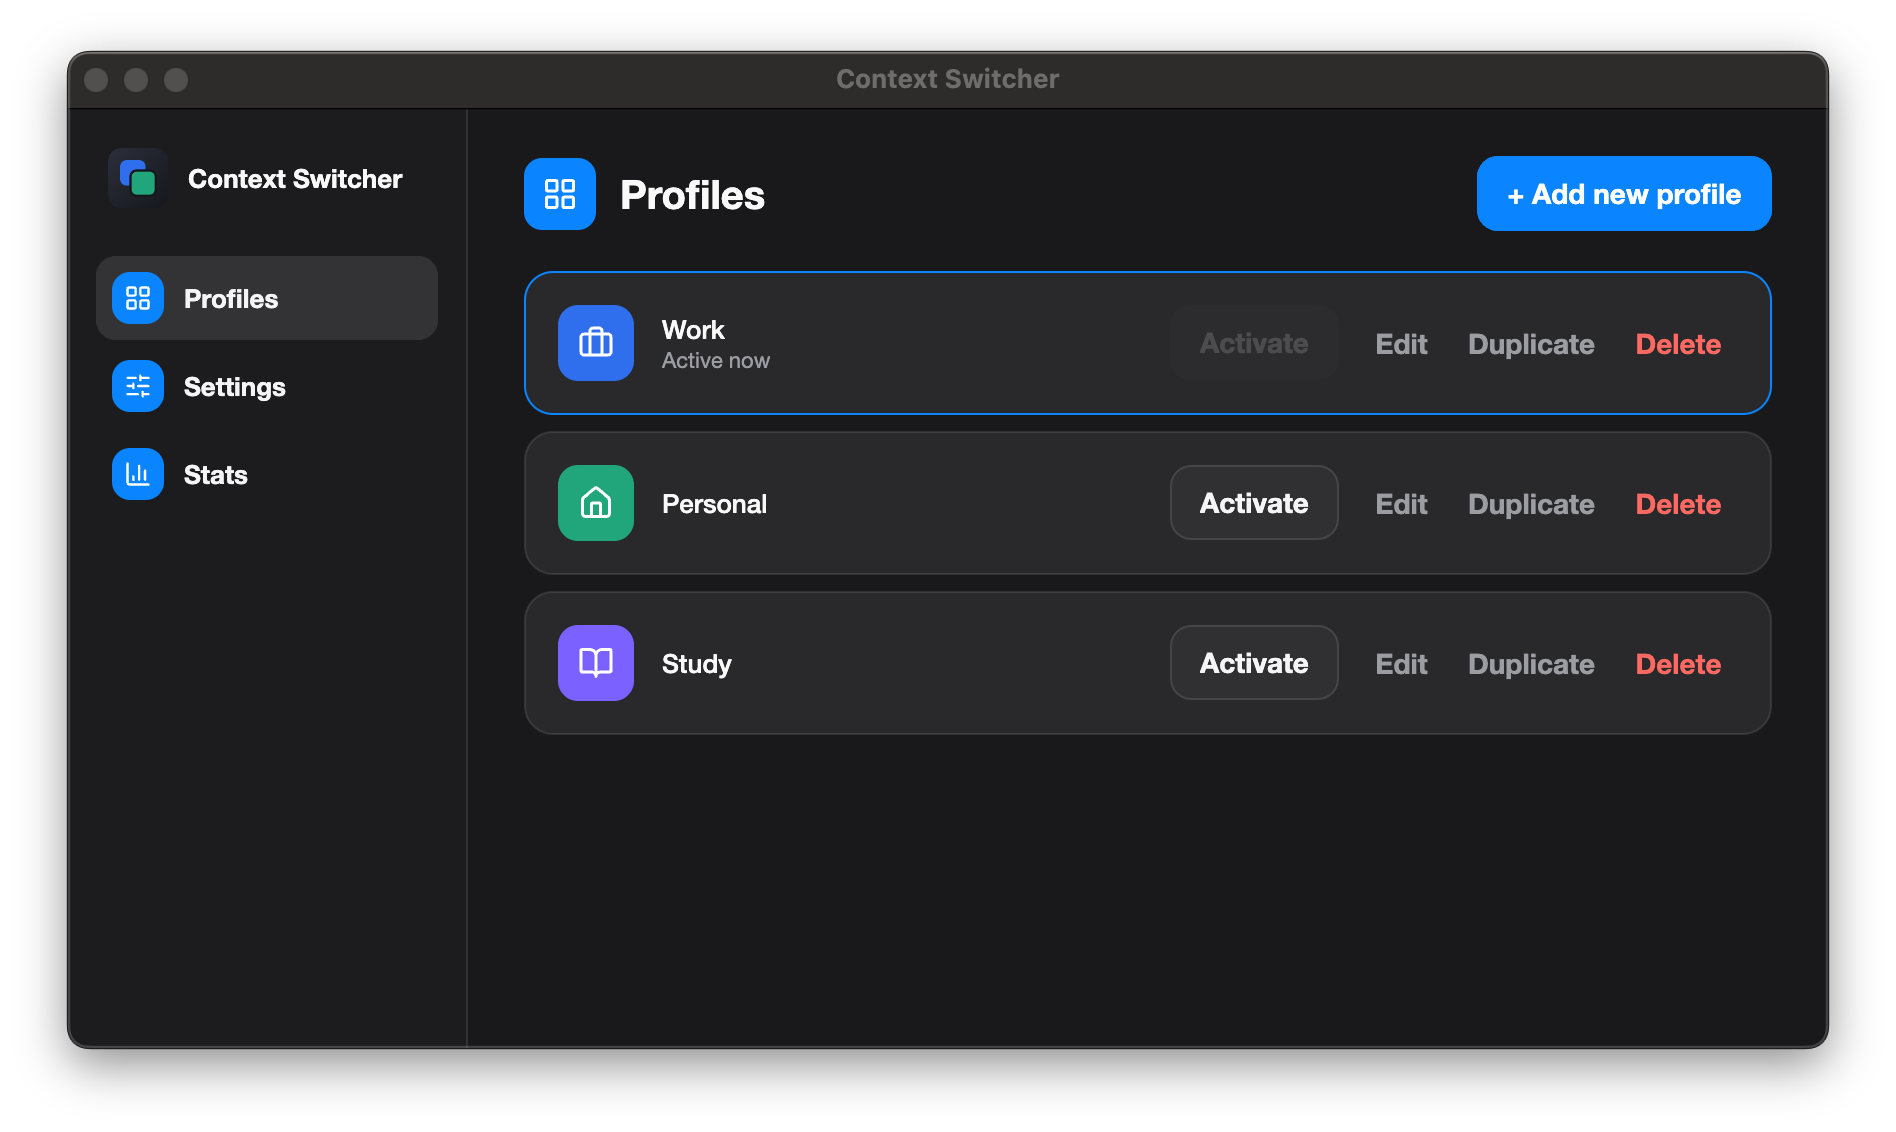
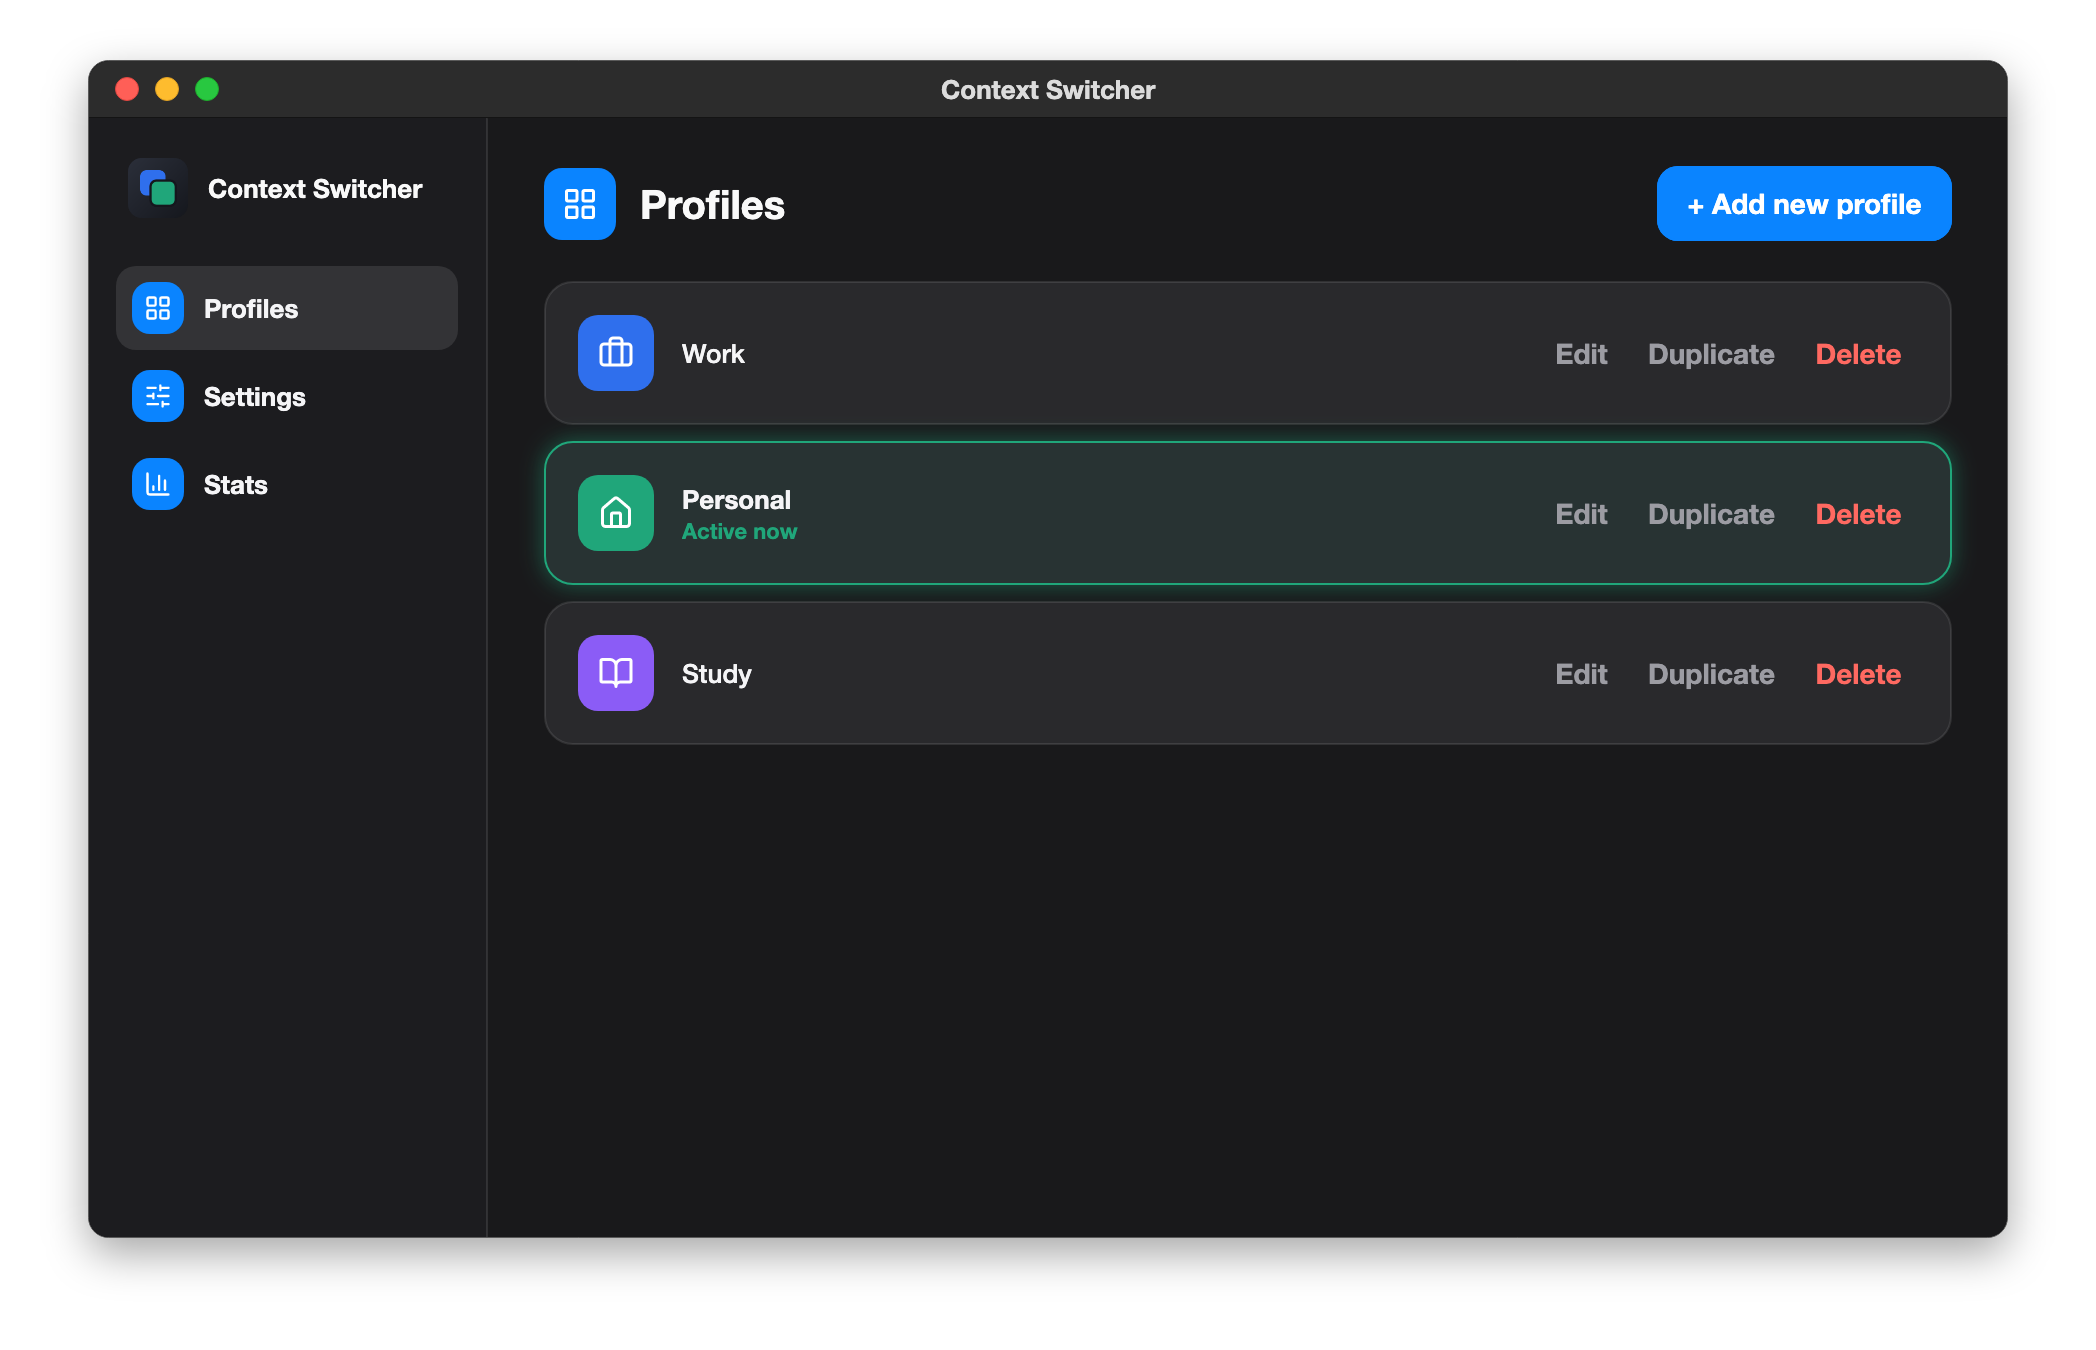
Redraw the README's main-window screenshots, and keep a way to redraw them
The Profiles, warnings card and Settings screenshots were from 0.2.0. They
still showed the Activate buttons, the old warning text, version 0.2.0,
and Settings without Language, Open at login, or Switching.

A script can't click through the app's windows, so a test now draws those
pages with demo profiles - Work, Personal on, Study - in light and dark.
They come out at twice the size, in a macOS window frame with a
transparent shadow, as a window screenshot does. The test does nothing
unless CONTEXTSWITCHER_SCREENSHOTS names a folder, and
scripts/readme-screenshots.sh runs it into docs/images.

Approaches that went wrong along the way:
- Scaling the frame up, or rendering it into a bitmap of twice the
  density, put the active profile's card in the wrong place. The window
  is drawn at a render scaling of two instead.
- The captured frame is marked opaque though its corners are clear, so
  it is saved again with its alpha.

The warnings card now shows the new lines: an app that may be asking to
save, and one still running with Force quit. Settings ends after
Switching. The README's alt texts match, and docs/release-process.md
says how to redraw the screenshots.

diff --git a/src/ContextSwitcher.Tests/Ui/ReadmeScreenshots.cs b/src/ContextSwitcher.Tests/Ui/ReadmeScreenshots.cs
@@ -1,0 +1,216 @@
+using System.Globalization;
+using Avalonia;
+using Avalonia.Controls;
+using Avalonia.Controls.Shapes;
+using Avalonia.Headless;
+using Avalonia.Layout;
+using Avalonia.Media;
+using Avalonia.Media.Imaging;
+using Avalonia.Platform;
+using Avalonia.Styling;
+using ContextSwitcher.App.Resources;
+using ContextSwitcher.App.Startup;
+using ContextSwitcher.App.ViewModels;
+using ContextSwitcher.App.Views;
+using ContextSwitcher.Core.Abstractions;
+using ContextSwitcher.Core.Configuration;
+using ContextSwitcher.Core.Contexts;
+using ContextSwitcher.Core.Messages;
+using ContextSwitcher.Tests.App;
+using ContextSwitcher.Tests.TestDoubles;
+
+namespace ContextSwitcher.Tests.Ui;
+
+/// <summary>
+/// Draws the README's screenshots of the main window - the Profiles page, the card a switch with
+/// problems leaves, and Settings - in light and dark, at twice the size, in a macOS window frame.
+/// The app's windows can't be clicked through from a script, so they are drawn here, from the same
+/// pages, with demo profiles. Only when <c>CONTEXTSWITCHER_SCREENSHOTS</c> names the folder to write
+/// them to - scripts/readme-screenshots.sh does; in an ordinary test run it does nothing.
+/// </summary>
+[Collection(AppHostTestCollection.Name)]
+public sealed class ReadmeScreenshots : UiTest
+{
+    private const string FolderVariable = "CONTEXTSWITCHER_SCREENSHOTS";
+    private const double Scale = 2;
+    private const double Width = 960;
+
+    [Fact]
+    public async Task DrawTheMainWindowScreenshots()
+    {
+        if (Environment.GetEnvironmentVariable(FolderVariable) is not { Length: > 0 } folder)
+        {
+            return;
+        }
+
+        Directory.CreateDirectory(folder);
+        CultureInfo? language = Strings.Culture;
+        Strings.Culture = CultureInfo.GetCultureInfo("en");
+        try
+        {
+            await OnUiThreadAsync(() =>
+            {
+                foreach (ThemeVariant theme in new[] { ThemeVariant.Light, ThemeVariant.Dark })
+                {
+                    Shoot(folder, "profiles", theme, 560, (_, _) => { });
+                    Shoot(folder, "switch-problems", theme, 600, (_, _) => AppHost.UpdateState(WithProblems()));
+                    Shoot(folder, "settings", theme, 850, (viewModel, _) => viewModel.ShowSettings());
+                }
+            });
+        }
+        finally
+        {
+            Strings.Culture = language;
+        }
+    }
+
+    /// <summary>Three profiles, Personal on - the ones every screenshot in the README shows.</summary>
+    private static AppConfiguration Demo() => new()
+    {
+        ActiveContextId = "personal",
+        IgnoredApps = ["Telegram"],
+        Contexts =
+        [
+            new ContextDefinition { Id = "work", DisplayName = "Work", Icon = "briefcase", AccentColor = "#2F6FED" },
+            new ContextDefinition { Id = "personal", DisplayName = "Personal", Icon = "house", AccentColor = "#20A67A" },
+            new ContextDefinition { Id = "study", DisplayName = "Study", Icon = "book", AccentColor = "#8B5CF6" }
+        ]
+    };
+
+    /// <summary>A switch to Personal that left an app asking to save, and one in the background.</summary>
+    private static CurrentContextState WithProblems()
+    {
+        DateTimeOffset completedAt = DateTimeOffset.UtcNow;
+        return new CurrentContextState
+        {
+            CurrentContextId = "personal",
+            PreviousContextId = "work",
+            LastSwitchCompletedAt = completedAt,
+            LastSwitchStatus = nameof(ContextSwitchStatus.SucceededWithWarnings),
+            LastErrors = [Line(SwitchMessages.CouldNotClose.With("Visual Studio Code")), Line(SwitchMessages.StayedInBackground.With("Steam"))]
+        };
+
+        StateError Line(UserMessage message) => new()
+        {
+            StepId = "CloseApplications.work",
+            Message = message.English,
+            MessageKey = message.Key,
+            MessageArguments = message.Arguments,
+            OccurredAt = completedAt
+        };
+    }
+
+    /// <summary>
+    /// Draws the window as a Retina screen does, at twice its size: its page goes into a macOS frame
+    /// inside the same window, and the window is drawn at a scaling of two. Scaling the frame itself
+    /// up, or drawing it into a bitmap of twice the density, put the active profile's card in the
+    /// wrong place and everything else at four times the size.
+    /// </summary>
+    private static void Shoot(string folder, string name, ThemeVariant theme, double height, Action<MainAppViewModel, MainAppWindow> prepare)
+    {
+        UiScenario scenario = UiScenario.With(Demo());
+        AppHost.UpdateState(new CurrentContextState { CurrentContextId = "personal" });
+        UpdatesViewModel updates = new(scenario.Releases, scenario.Updater, scenario.ProcessRunner, new FakeSystemNotifications(), UpdatesViewModel.RunningVersion);
+        MainAppViewModel viewModel = new(
+            scenario.SwitchService, scenario.ConfigurationStore, scenario.JsonStore, scenario.Paths, scenario.Permissions,
+            scenario.ProcessRunner, scenario.Analytics, scenario.InstalledApps, scenario.Catalog, scenario.FocusShortcuts,
+            scenario.Notice, updates, loginItem: new FakeLoginItem { Status = LoginItemStatus.On });
+
+        // See-through from the start: a window takes its transparency when it is first shown.
+        MainAppWindow window = new(viewModel)
+        {
+            Width = Width,
+            Height = height,
+            RequestedThemeVariant = theme,
+            TransparencyLevelHint = [WindowTransparencyLevel.Transparent]
+        };
+        window.Show();
+        prepare(viewModel, window);
+        PumpUntil(Task.Delay(300));
+        Settle(window);
+
+        IBrush? background = window.Background;
+        Control page = (Control)window.Content!;
+        window.Content = null;
+        window.Background = Brushes.Transparent;
+        window.Content = Framed(page, height, theme, background);
+        window.Width = Width + Margin.Left + Margin.Right;
+        window.Height = height + TitleBarHeight + 1 + Margin.Top + Margin.Bottom;
+        window.SetRenderScaling(Scale);
+        PumpUntil(Task.Delay(200));
+        Settle(window);
+
+        Save(window, System.IO.Path.Combine(folder, $"{name}-{(theme == ThemeVariant.Dark ? "dark" : "light")}.png"));
+        window.Close();
+    }
+
+    /// <summary>
+    /// Saves the window's frame with its transparency. The frame keeps the see-through room around
+    /// the window, but is marked opaque, which saved it as solid white or black; the same pixels are
+    /// saved again as what they are - with alpha - and at the 144 dpi a Mac screenshot has.
+    /// </summary>
+    private static void Save(Window window, string path)
+    {
+        WriteableBitmap frame = window.CaptureRenderedFrame()!;
+        using ILockedFramebuffer pixels = frame.Lock();
+        using WriteableBitmap withAlpha = new(pixels.Format, AlphaFormat.Premul, pixels.Address, pixels.Size, new Vector(144, 144), pixels.RowBytes);
+        withAlpha.Save(path, new PngBitmapEncoderOptions());
+    }
+
+    private const double TitleBarHeight = 28;
+
+    /// <summary>Transparent room around the window for its shadow, deeper below, as macOS leaves it.</summary>
+    private static readonly Thickness Margin = new(44, 30, 44, 56);
+
+    /// <summary>
+    /// The page as macOS frames a window: a title bar with its three buttons and the title, rounded
+    /// corners, a hairline edge and the shadow, on a transparent ground - as a screenshot of a window
+    /// comes out.
+    /// </summary>
+    private static Border Framed(Control page, double height, ThemeVariant theme, IBrush? background)
+    {
+        bool dark = theme == ThemeVariant.Dark;
+
+        Grid titleBar = new() { Height = TitleBarHeight, Background = Brush(dark ? "#2C2C2C" : "#EBEBEB") };
+        StackPanel buttons = new() { Orientation = Orientation.Horizontal, Spacing = 8, Margin = new Thickness(13, 0, 0, 0), VerticalAlignment = VerticalAlignment.Center };
+        foreach ((string fill, string rim) in new[] { ("#FF5F57", "#E14640"), ("#FEBC2E", "#DFA023"), ("#28C840", "#1DAD2B") })
+        {
+            buttons.Children.Add(new Ellipse { Width = 12, Height = 12, Fill = Brush(fill), Stroke = Brush(rim), StrokeThickness = 0.5 });
+        }
+
+        titleBar.Children.Add(buttons);
+        titleBar.Children.Add(new TextBlock
+        {
+            Text = "Context Switcher",
+            FontSize = 13,
+            FontWeight = FontWeight.SemiBold,
+            Foreground = Brush(dark ? "#DCDCDC" : "#4B4B4B"),
+            HorizontalAlignment = HorizontalAlignment.Center,
+            VerticalAlignment = VerticalAlignment.Center
+        });
+
+        Border edge = new() { Height = 1, Background = Brush(dark ? "#141414" : "#D4D4D4") };
+        page.Width = Width;
+        page.Height = height;
+        DockPanel body = new() { Background = background };
+        DockPanel.SetDock(titleBar, Dock.Top);
+        DockPanel.SetDock(edge, Dock.Top);
+        body.Children.Add(titleBar);
+        body.Children.Add(edge);
+        body.Children.Add(page);
+
+        Border window = new()
+        {
+            CornerRadius = new CornerRadius(10),
+            Background = background,
+            BorderBrush = Brush(dark ? "#5A5A5A" : "#2E000000"),
+            BorderThickness = new Thickness(0.5),
+            BoxShadow = BoxShadows.Parse("0 16 36 0 #59000000"),
+            Child = new Border { CornerRadius = new CornerRadius(10), ClipToBounds = true, Child = body }
+        };
+
+        return new Border { Padding = Margin, Background = Brushes.Transparent, Child = window };
+    }
+
+    private static SolidColorBrush Brush(string color) => new(Color.Parse(color));
+}

diff --git a/README.md b/README.md
@@ -202,7 +202,7 @@ The **Profiles** page lists every profile: click one to switch to it — or clic
 <div align="center">
 <picture>
   <source media="(prefers-color-scheme: dark)" srcset="docs/images/profiles-dark.png">
-  <img src="docs/images/profiles-light.png" width="720" alt="The Profiles page with Work, Personal and Study">
+  <img src="docs/images/profiles-light.png" width="720" alt="The Profiles page with Work, Personal and Study, Personal active now">
 </picture>
 </div>
 
@@ -265,7 +265,7 @@ Mac the same — and loads them back.
 <div align="center">
 <picture>
   <source media="(prefers-color-scheme: dark)" srcset="docs/images/settings-dark.png">
-  <img src="docs/images/settings-light.png" width="720" alt="Settings: theme, Dock icon, permission status, time tracking and updates">
+  <img src="docs/images/settings-light.png" width="720" alt="Settings: language, theme, Dock icon, open at login, permission to control other apps, and the apps it never touches">
 </picture>
 </div>
 
@@ -278,7 +278,7 @@ and how to fix it. It stays until you close it or switch again. Still stuck? [Wr
 <div align="center">
 <picture>
   <source media="(prefers-color-scheme: dark)" srcset="docs/images/switch-problems-dark.png">
-  <img src="docs/images/switch-problems-light.png" width="720" alt="A card at the bottom of the window: Switched to Personal, with warnings — Visual Studio Code had unsaved changes">
+  <img src="docs/images/switch-problems-light.png" width="720" alt="A card at the bottom of the window: Switched to Personal, with warnings — Visual Studio Code may be asking to save changes, and Steam still hasn't quit, with a Force quit button">
 </picture>
 </div>
 

diff --git a/docs/release-process.md b/docs/release-process.md
@@ -184,3 +184,17 @@ release that touches them:
   `analytics.jsonl` ends with `"endReason":"away"`
 - [ ] **Export and import:** Export saves a file; importing that file asks, then shows the same
   profiles
+
+## README screenshots
+
+The Profiles page, a switch's warnings card and Settings are drawn, not photographed: a script can't
+click through the app's windows, so a test draws the same pages with demo profiles, in light and
+dark, at twice the size, in a macOS window frame. After changing how any of them looks:
+
+```bash
+./scripts/readme-screenshots.sh
+```
+
+It writes `docs/images/{profiles,switch-problems,settings}-{light,dark}.png`; look them over before
+committing. The other screenshots - setup, the profile editor, Stats and the dashboard - are still
+taken from the running app.
